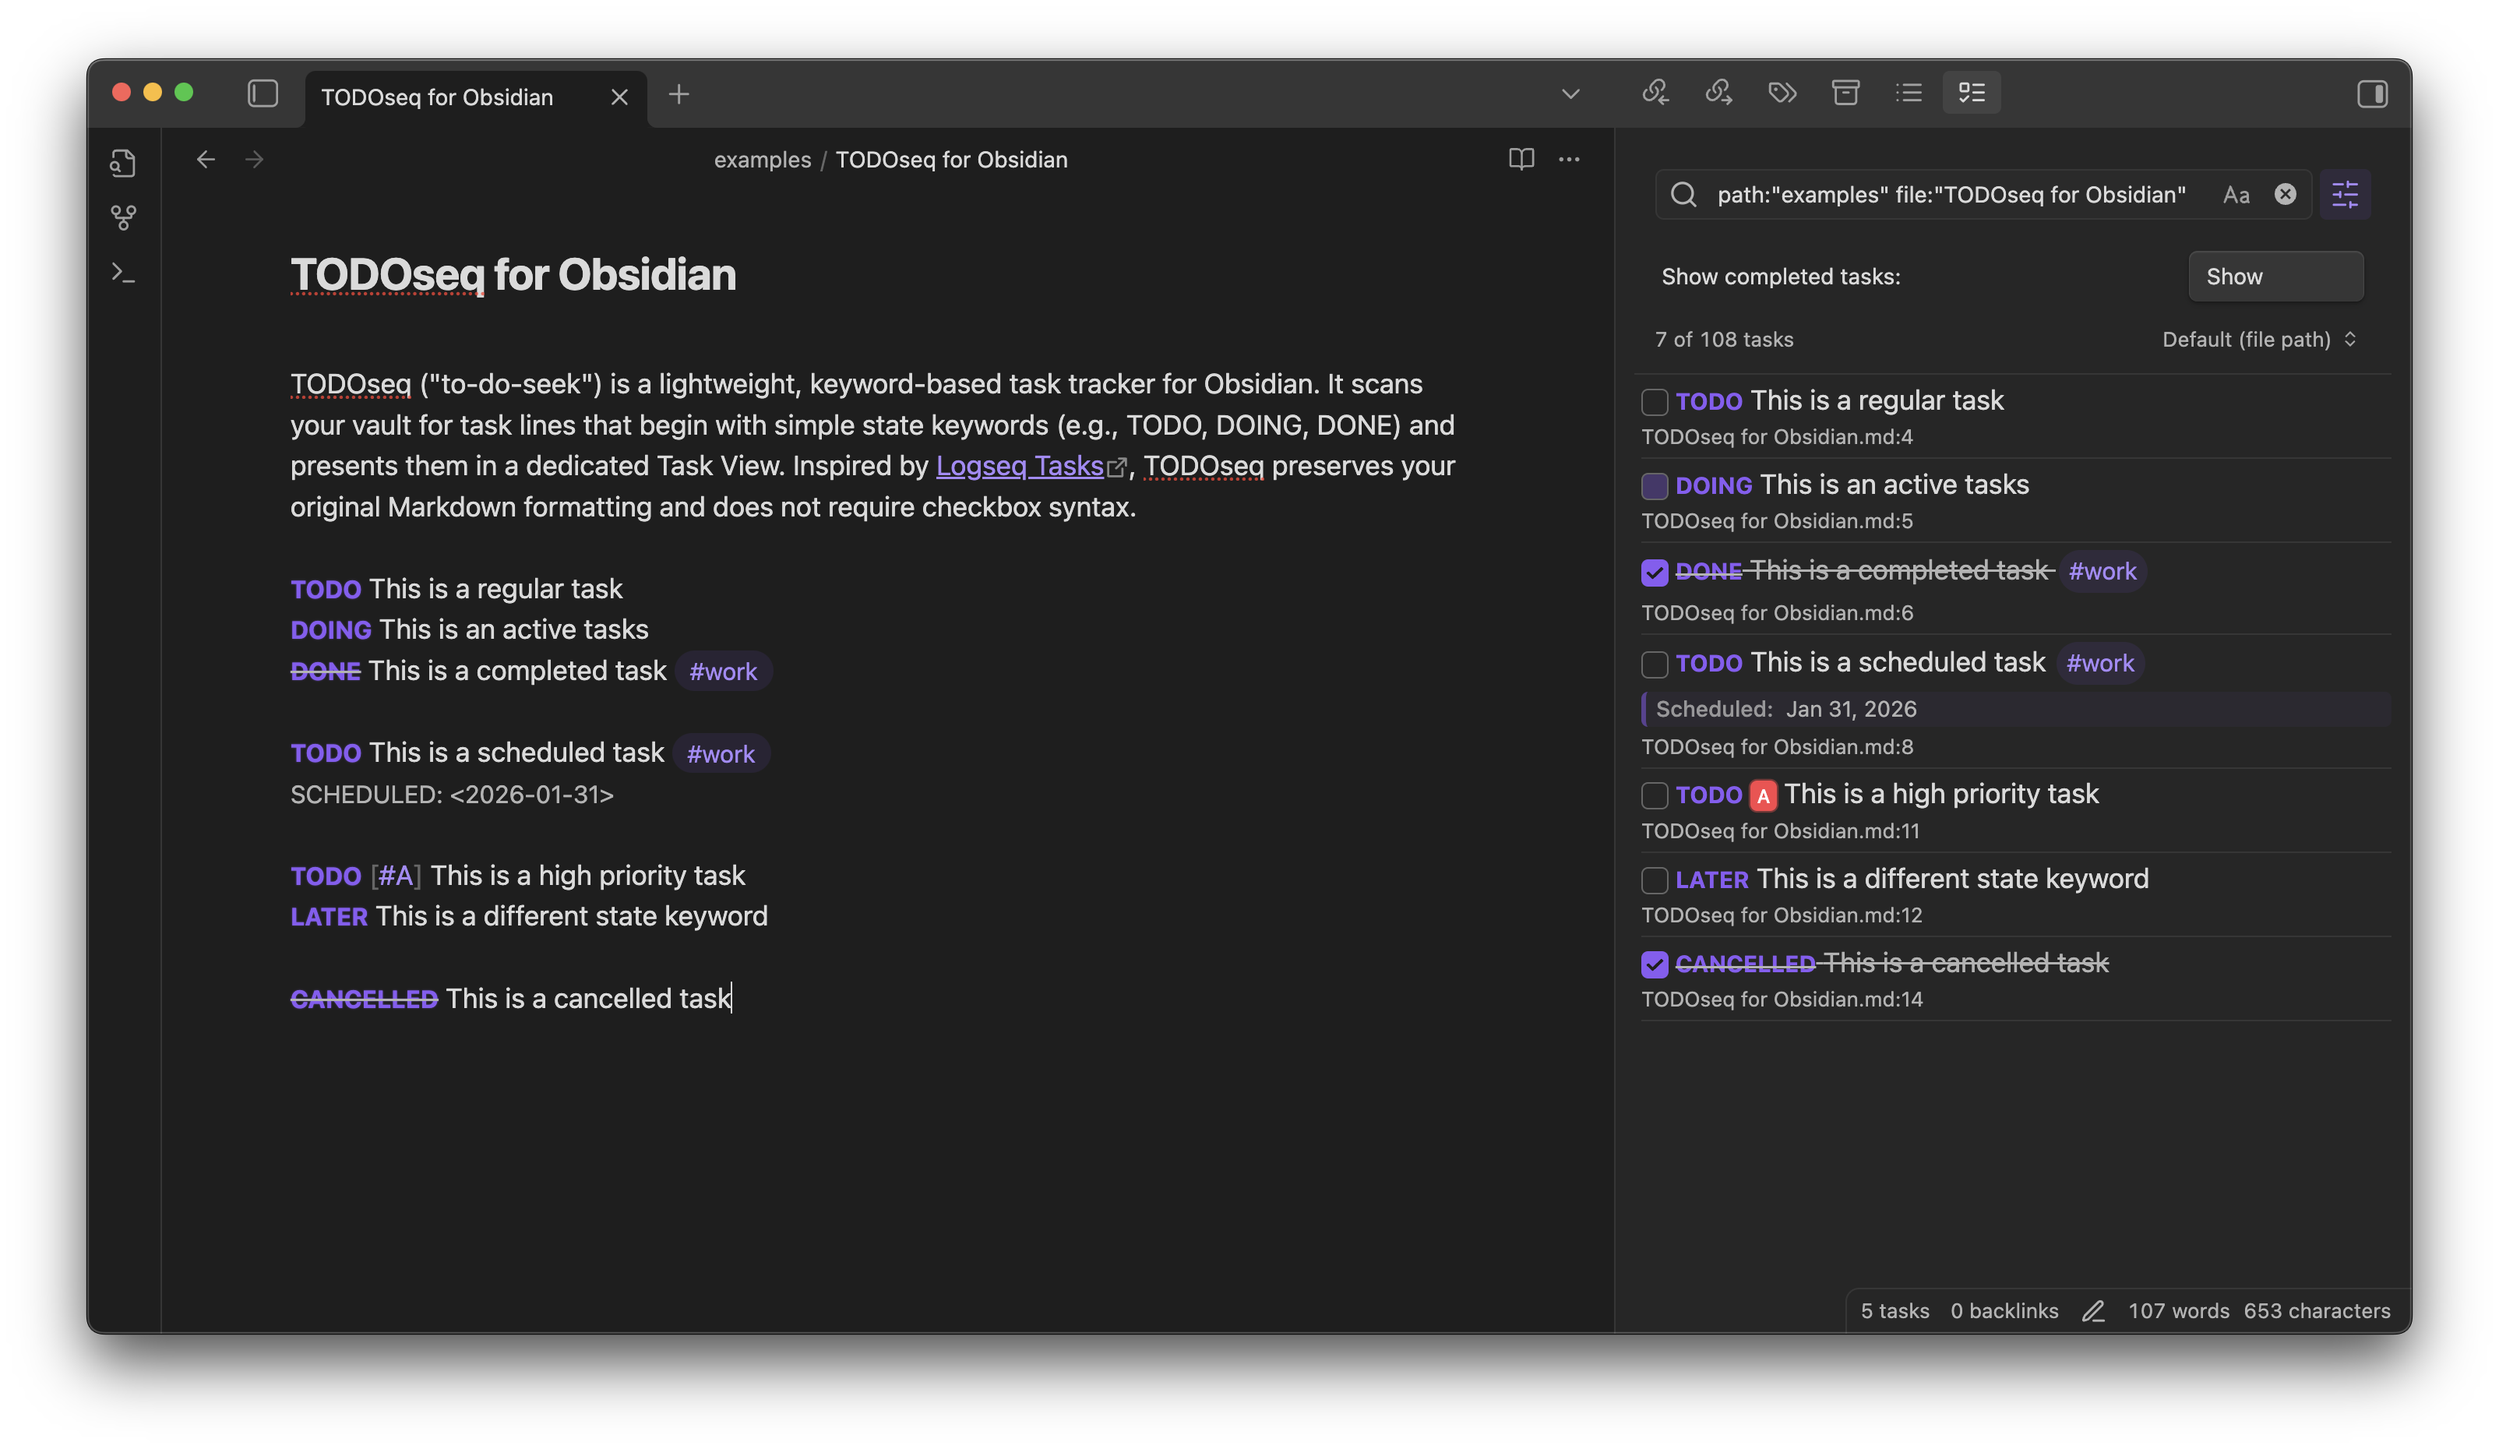
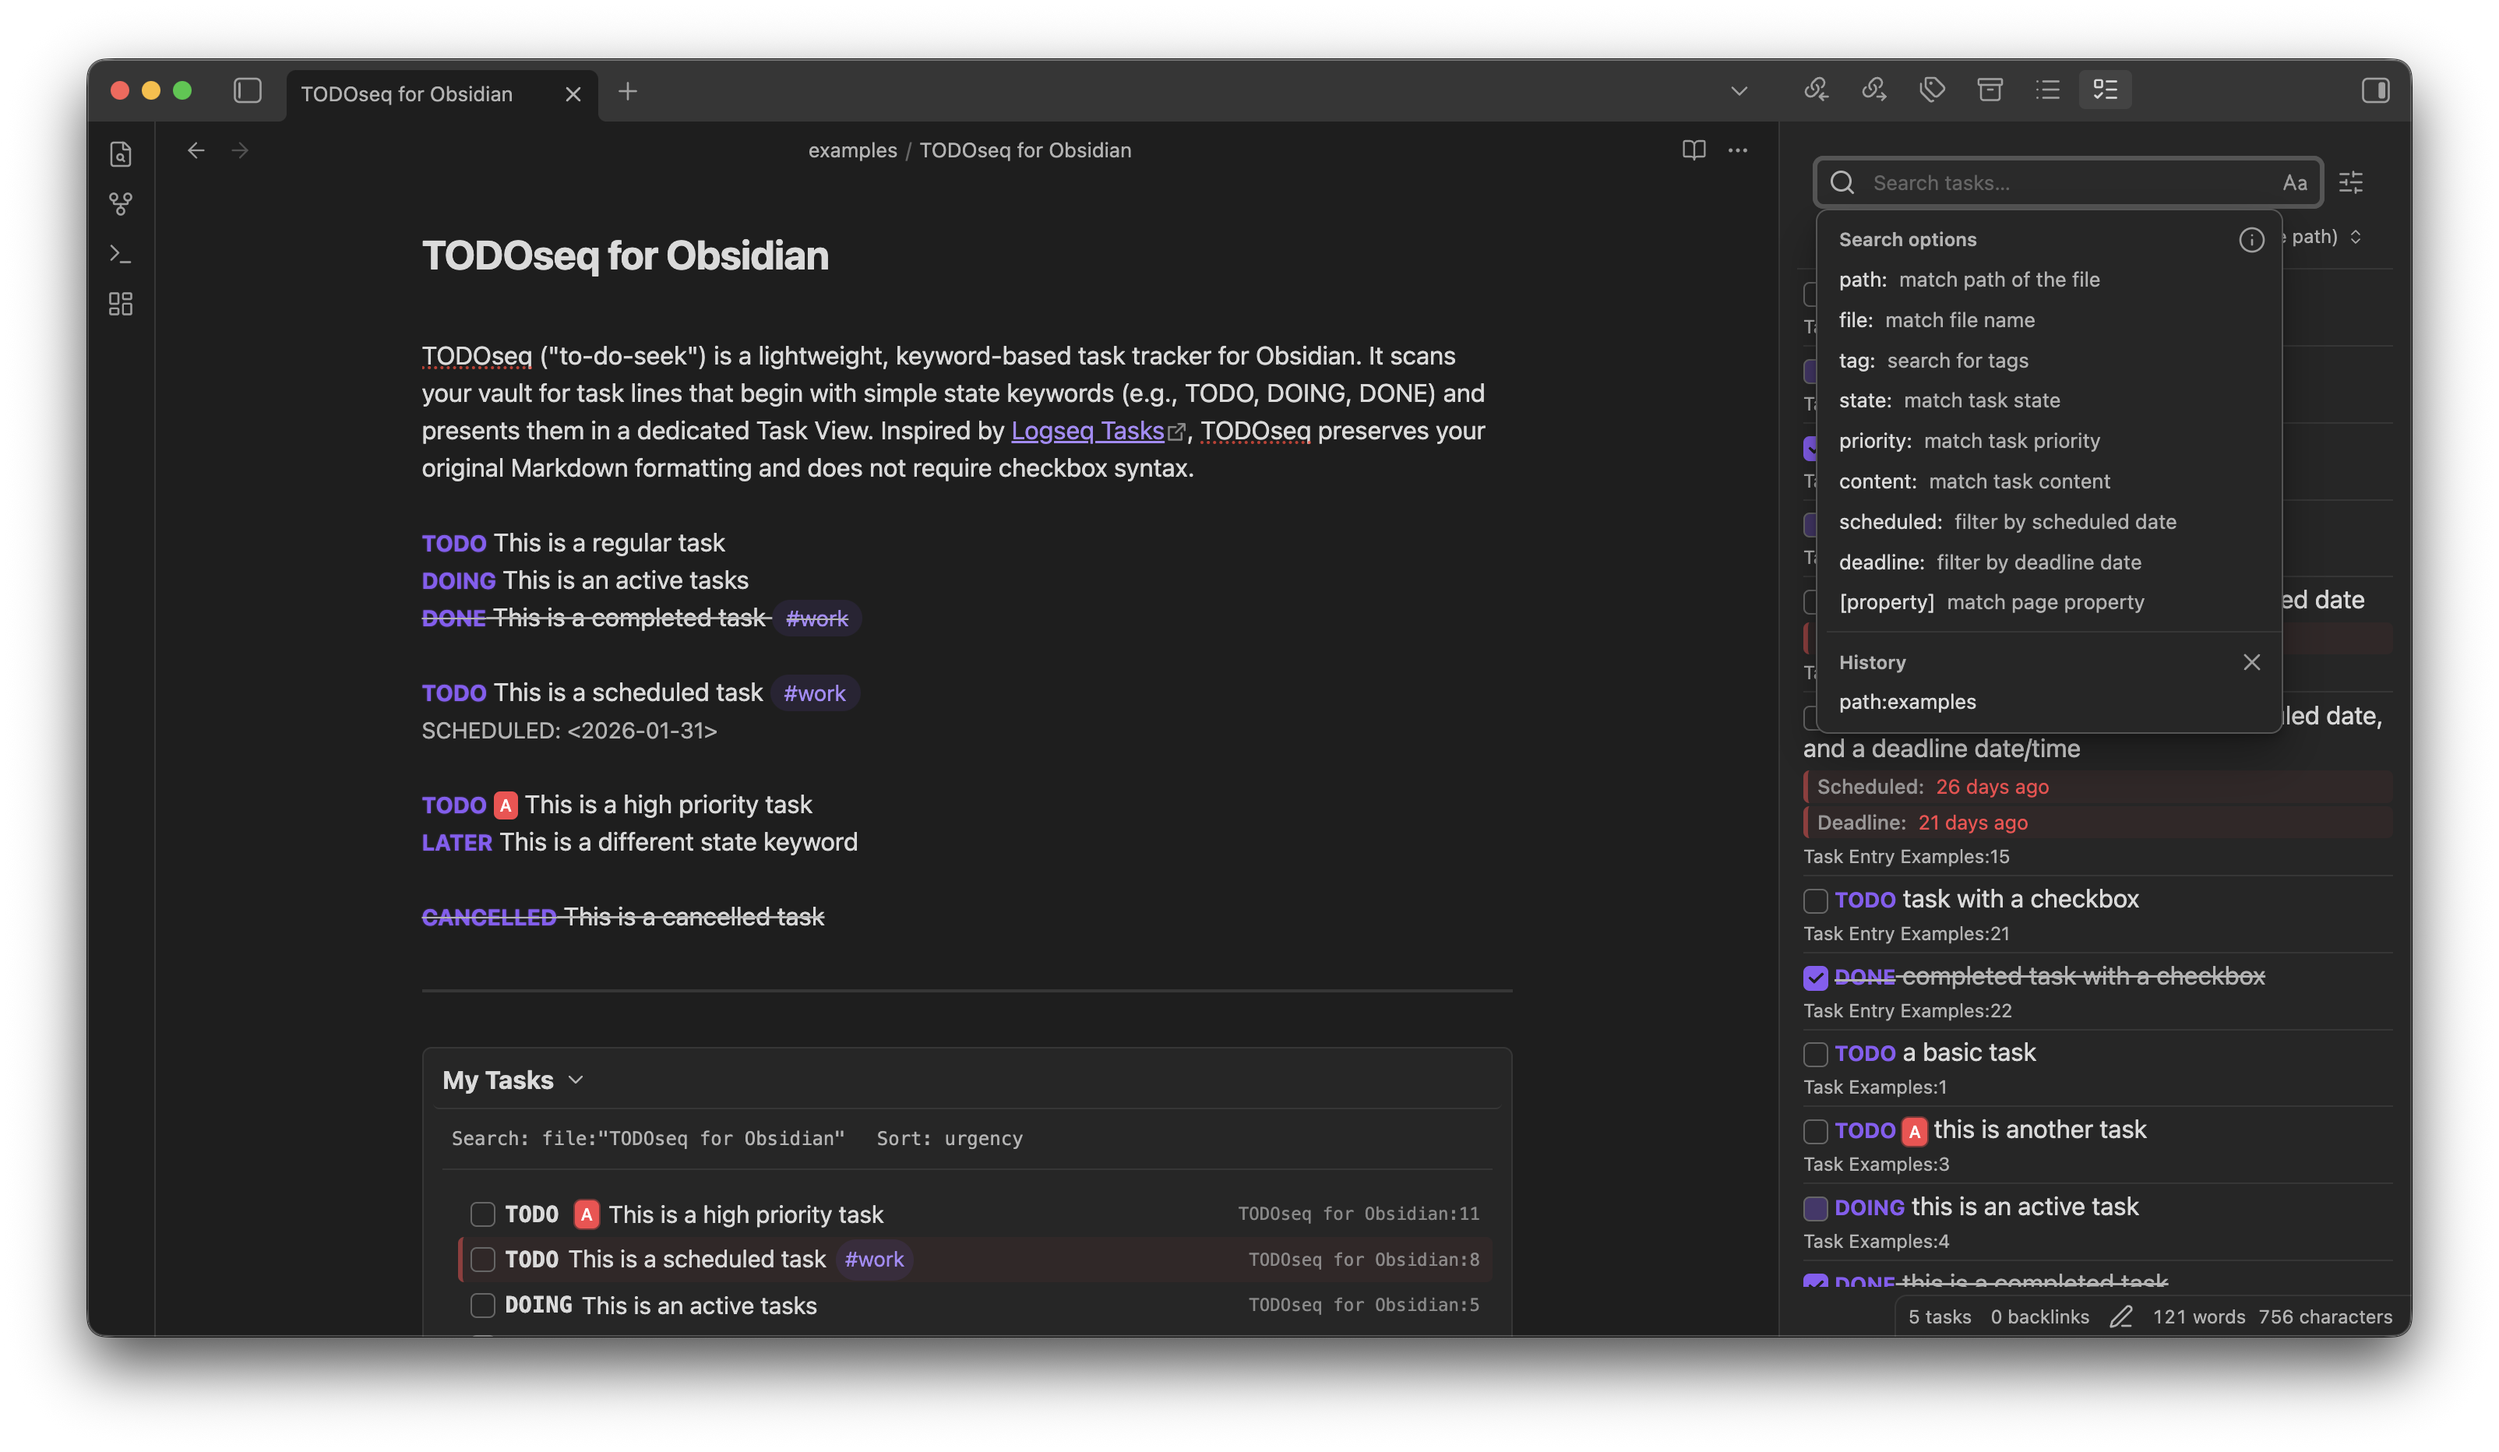
update README

diff --git a/README.md b/README.md
@@ -1,71 +1,129 @@
 # TODOseq for Obsidian
 
-TODOseq ("to-do-seek") is a lightweight, keyword-based task tracker for Obsidian. It scans your vault for task lines that begin with simple state keywords (e.g., TODO, DOING, DONE) and presents them in a dedicated Task List view. Inspired by the task capture styles of [Emacs Org-mode](https://orgmode.org/) and [Logseq Tasks](https://docs.logseq.com/#/page/tasks) TODOseq preserves your original Markdown formatting and does not require checkbox syntax.
+[![Obsidian Downloads](https://img.shields.io/badge/dynamic/json?logo=obsidian&color=%23483699&label=downloads&query=%24%5B%22todoseq%22%5D.downloads&url=https%3A%2F%2Fraw.githubusercontent.com%2Fobsidianmd%2Fobsidian-releases%2Fmaster%2Fcommunity-plugin-stats.json)](https://obsidian.md/plugins?id=todoseq)
+[![GitHub Release](https://img.shields.io/github/v/release/scross01/obsidian-todoseq?logo=github&color=blue)](https://github.com/scross01/obsidian-todoseq/releases/latest)
+[![License](https://img.shields.io/github/license/scross01/obsidian-todoseq)](LICENSE)
 
-![screenshot of obsidian showing the page editor and the TODOseq panel in a separate tab showing the list of tasks found in the vault.](screenshot.png)
+**Keyword-based task management for Obsidian. No checkboxes required.**
 
-## Key Features
+TODOseq ("to-do-seek") scans your vault for tasks marked with simple state keywords like `TODO`, `DOING`, and `DONE`, then presents them in a unified Task List view. Inspired by [Logseq](https://logseq.com/) and [Org-mode](https://orgmode.org/), it lets you capture tasks naturally within your notes without disrupting your writing flow.
 
-- **Keyword-based task management**: Use simple keywords like `TODO`, `DOING`, `DONE` instead of checkboxes
-- **Logseq compatibility**: Full support for Logseq task format including priority tokens and dates
-- **Flexible task recognition**: Works with traditional keywords and markdown checkboxes
-- **Powerful search**: Advanced search with boolean logic, prefix filters, and date expressions
-- **Task List View**: Dedicated panel showing all tasks across your vault
-- **Inline styling**: Keyword styling and interactive task state updates directly in the Markdown editor and reader views
-- **Code block support**: Extract tasks from comments in 20+ programming languages
-- **State cycling**: Click keywords to cycle through task states
-- **Priority system**: Use `[#A]`, `[#B]`, `[#C]` for high, medium, low priority
-- **Date management**: Support for SCHEDULED and DEADLINE dates
-- **Urgency sorting**: Smart task ranking based on due dates, priority, tags, and task state
-- **Embedded task lists**: Render task lists directly in notes using code blocks with custom search and sort parameters
+![TODOseq Screenshot](screenshot.png)
 
-## Installation
+## Why TODOseq?
 
-### From Obsidian Community Plugins
+Most task managers force you into a separate system. TODOseq meets you where you already work—inside your Obsidian notes. Type `TODO Write report` anywhere in your vault, and it appears instantly in your Task List. No switching contexts, no special syntax to remember, no checkboxes to click.
 
-1. Open Settings → Community plugins → Browse
-2. Search for "TODOseq"
-3. Install and enable the plugin
+## Core Features
 
-### Manual (development build)
+**Natural Task Capture** — Write tasks as plain text using keywords: `TODO`, `DOING`, `DONE`, `LATER`, `NOW`, `WAIT`, and more. Add priorities `[#A]`, `[#B]`, `[#C]` and dates `SCHEDULED: <2025-03-15>` using familiar Logseq-style syntax.
 
-1. Clone this repository into your vault's `.obsidian/plugins` directory
-2. Run `npm install` and `npm run build` in the repository root
-3. In Obsidian, go to Settings → Community plugins and enable the plugin
+**Unified Task List** — See all tasks from across your vault in one searchable, sortable panel. Filter by state, priority, date, tags, or use advanced boolean queries. Sort by urgency to surface what matters most right now.
+
+**Works Everywhere** — Tasks remain functional in both Edit mode and Reader view. Click any keyword to cycle through states. Right-click for direct state selection. Use `Ctrl+Enter` to toggle tasks from your keyboard.
+
+**Code-Aware** — Extracts tasks from code block comments in 20+ languages. Capture `// TODO Refactor this` from JavaScript, `# TODO Optimize query` from SQL, or `<!-- TODO Update docs -->` from HTML.
+
+**Embedded Lists** — Render filtered task lists directly in your notes using `todoseq` code blocks. Create dynamic dashboards showing "High Priority Work Tasks" or "Overdue Items" that update automatically.
+
+**Logseq Compatible** — Use the same task format across both tools. Existing Logseq tasks work without modification. Dual-use your vault or migrate at your own pace.
 
 ## Quick Start
 
-1. **Open Task List**: The TODOseq task view automatically opens in the right sidebar when the plugin is enabled, and can also be opened via the command palette.
-2. **Create tasks**: Add lines starting with `TODO`, `DOING`, `DONE`, etc. in your notes
-3. **Manage tasks**: Click task keywords to cycle states or use checkboxes for TODO/DONE toggle
-4. **Navigate**: Click task rows to jump to source files
-5. **Search**: Use the search field to filter tasks with powerful query syntax
-
-**Note**: The ribbon icon has been removed since v0.7.0. Use the command palette to reopen the right sidebar panel to access tasks.
-
-## Examples
-
 ```markdown
-TODO [#A] Finish project proposal #work
-SCHEDULED: <2026-01-31>
+TODO [#A] Finish quarterly report #work
+SCHEDULED: <2025-03-15>
 
-DOING [#B] Review code changes #coding
+DOING [#B] Review pull requests #coding
 
-DONE Buy groceries
-DEADLINE: <2023-12-20>
+DONE Submit expense report
+DEADLINE: <2025-03-10>
 ```
+
+1. **Install** from Obsidian Community Plugins (search "TODOseq")
+2. **Create tasks** by typing `TODO`, `DOING`, `DONE`, etc. in any note
+3. **Open Task List** — it appears automatically in the right sidebar (or use Command Palette → "TODOseq: Show task list")
+4. **Click keywords** to cycle states, or click task text to jump to source
+5. **Search** using natural language or advanced filters like `priority:high deadline:this week`
+
+## Installation
+
+### From Obsidian Community Plugins (Recommended)
+
+Settings → Community plugins → Browse → Search "TODOseq" → Install → Enable
+
+### Manual Installation
+
+```bash
+cd /path/to/your/vault/.obsidian/plugins
+git clone https://github.com/scross01/obsidian-todoseq.git todoseq
+cd todoseq
+npm install
+npm run build
+```
+
+Then enable "TODOseq" in Settings → Community plugins.
 
 ## Documentation
 
-For detailed information, see the documentation:
+Comprehensive documentation is available at **[scross01.github.io/obsidian-todoseq](https://scross01.github.io/obsidian-todoseq/)**
 
-[TODOseq Documentation](https://scross01.github.io/obsidian-todoseq/)
+- [Introduction & Philosophy](https://scross01.github.io/obsidian-todoseq/introduction.html) — Task management approach and Logseq compatibility
+- [Task List](https://scross01.github.io/obsidian-todoseq/task-list.html) — Using the dedicated task panel
+- [Task Entry](https://scross01.github.io/obsidian-todoseq/task-entry.html) — Task syntax, keywords, and lifecycle
+- [Editor Integration](https://scross01.github.io/obsidian-todoseq/editor.html) — Working with tasks in Edit mode
+- [Reader View](https://scross01.github.io/obsidian-todoseq/reader.html) — Working with tasks in Reading mode
+- [Search](https://scross01.github.io/obsidian-todoseq/search.html) — Advanced search syntax and filters
+- [Embedded Lists](https://scross01.github.io/obsidian-todoseq/embedded-task-lists.html) — Dynamic task lists in notes
+- [Settings](https://scross01.github.io/obsidian-todoseq/settings.html) — Configuration and customization
 
-- [Introduction & Philosophy](https://scross01.github.io/obsidian-todoseq/introduction.html) - Task management approach and Logseq compatibility
-- [Task List](https://scross01.github.io/obsidian-todoseq/task-list.html) - Using the dedicated task panel
-- [Task Entry](https://scross01.github.io/obsidian-todoseq/task-entry.html) - Task syntax, keywords, and lifecycle
-- [Editor Integration](https://scross01.github.io/obsidian-todoseq/editor.html) - Task display and interaction in the Markdown editor
-- [Reader View](https://scross01.github.io/obsidian-todoseq/reader.html) - Task styling and interaction in Reading mode
-- [Search Functionality](https://scross01.github.io/obsidian-todoseq/search.html) - Advanced search syntax and filters
-- [Embedded Task Lists](https://scross01.github.io/obsidian-todoseq/embedded-task-lists.html) - Render task lists in notes using code blocks
-- [Settings](https://scross01.github.io/obsidian-todoseq/settings.html) - Configuration options and customization
+## Examples
+
+### Basic Tasks
+
+```markdown
+TODO Draft proposal
+DOING Review feedback
+DONE Submit final version
+```
+
+### With Priorities and Dates
+
+```markdown
+TODO [#A] Critical security patch
+DEADLINE: <2025-03-12>
+
+DOING [#B] Update documentation
+SCHEDULED: <2025-03-15>
+```
+
+### In Code Blocks
+
+```python
+# TODO Add input validation
+# FIXME Handle edge case when user is null
+def process_user(user):
+    pass
+```
+
+### Embedded Task List
+
+````markdown
+```todoseq
+search: tag:work priority:high
+sort: urgency
+show-completed: hide
+limit: 10
+title: High Priority Work
+```
+````
+
+## Support
+
+- ⭐ Star this repo if you find it useful
+- 🐛 [Report issues](https://github.com/scross01/obsidian-todoseq/issues) or request features
+- 📝 [Contribute](CONTRIBUTING.md) improvements via pull requests
+
+## License
+
+MIT License — see [LICENSE](LICENSE) for details.

diff --git a/examples/TODOseq for Obsidian.md b/examples/TODOseq for Obsidian.md
@@ -16,5 +16,8 @@ CANCELLED This is a cancelled task
 ---
 
 ```todoseq
+title: My Tasks
 search: file:"TODOseq for Obsidian"
+sort: urgency
+collapse: true
 ```
